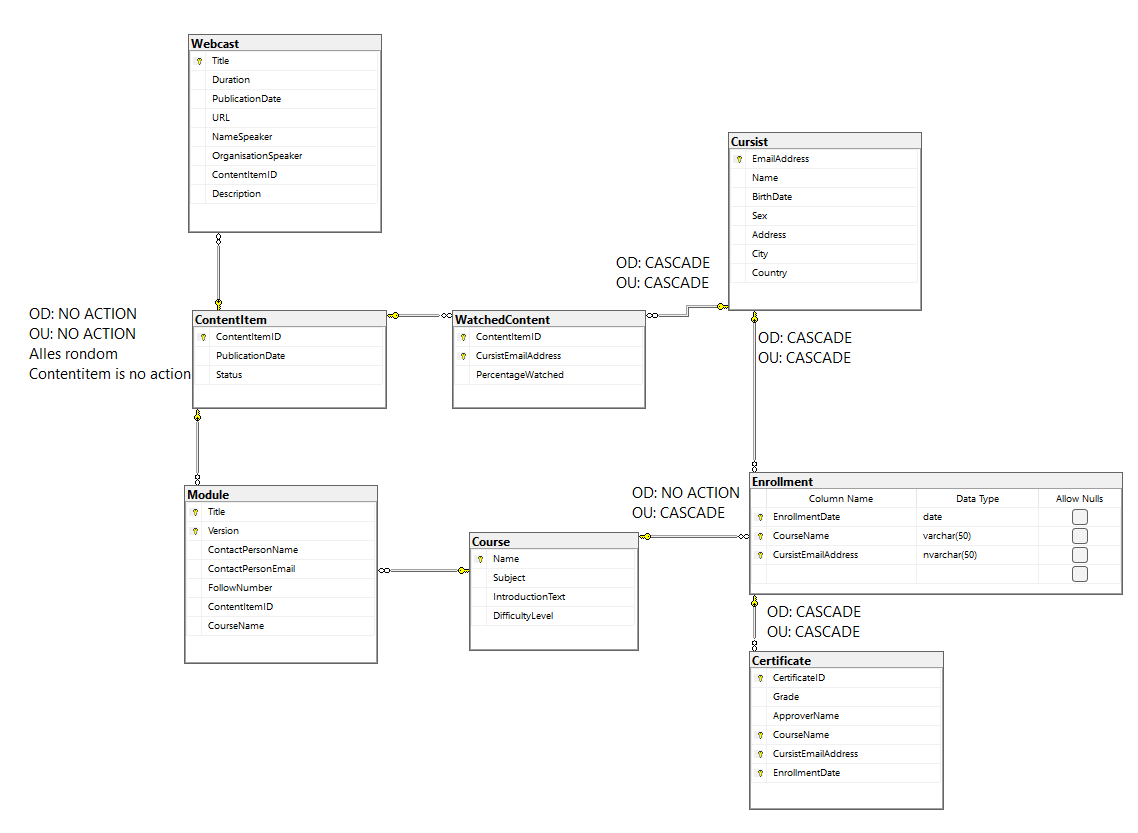
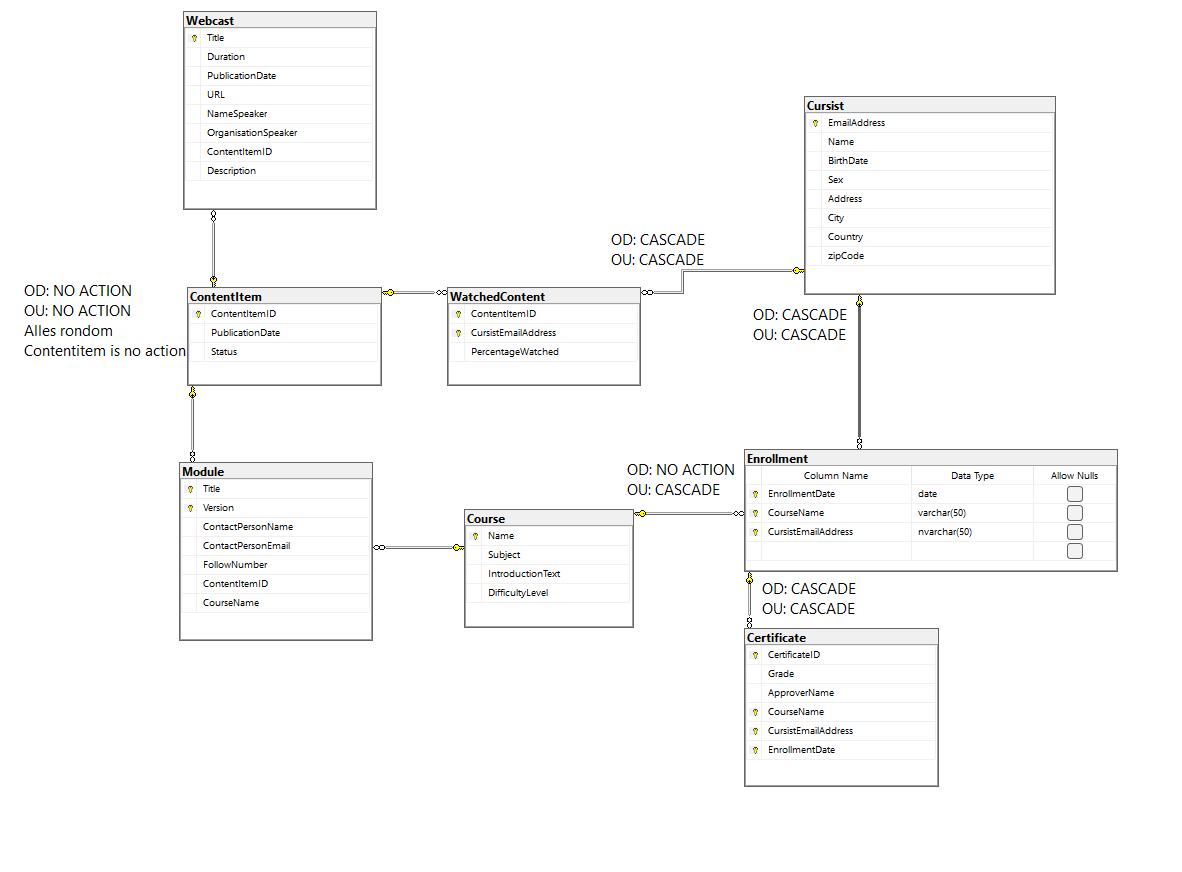
Zipcode attribuut toegevoegd aan cursist

diff --git a/src/enrollment/EnrollmentGUI.java b/src/enrollment/EnrollmentGUI.java
@@ -277,9 +277,9 @@ public class EnrollmentGUI extends Application {
 
             Insets buttonsEditPadding = new Insets(0, 15, 0, 15);
             buttonsEdit.setPadding(buttonsEditPadding);
-            ArrayList<String> cursistNames = cursistController.getAllCursist();
+            ArrayList<String> cursistEmailList = enrollmentController.getAllEnrollments();
 
-            items.setAll(cursistNames);
+            items.setAll(cursistEmailList);
             list.setItems(items);
 
             editPane.setBottom(buttonsEdit);

diff --git a/src/cursist/Cursist.java b/src/cursist/Cursist.java
@@ -10,6 +10,7 @@ public class Cursist {
     private String address;
     private String city;
     private String country;
+    private String zipCode;
    
 
     public String getEmailAddress() {
@@ -67,5 +68,15 @@ public class Cursist {
     public void setCountry(String country) {
         this.country = country;
     }
+
+    public String getZipCode() {
+        return zipCode;
+    }
+
+    public void setZipCode(String zipCode) {
+        this.zipCode = zipCode;
+    }
+
+    
 
 }
